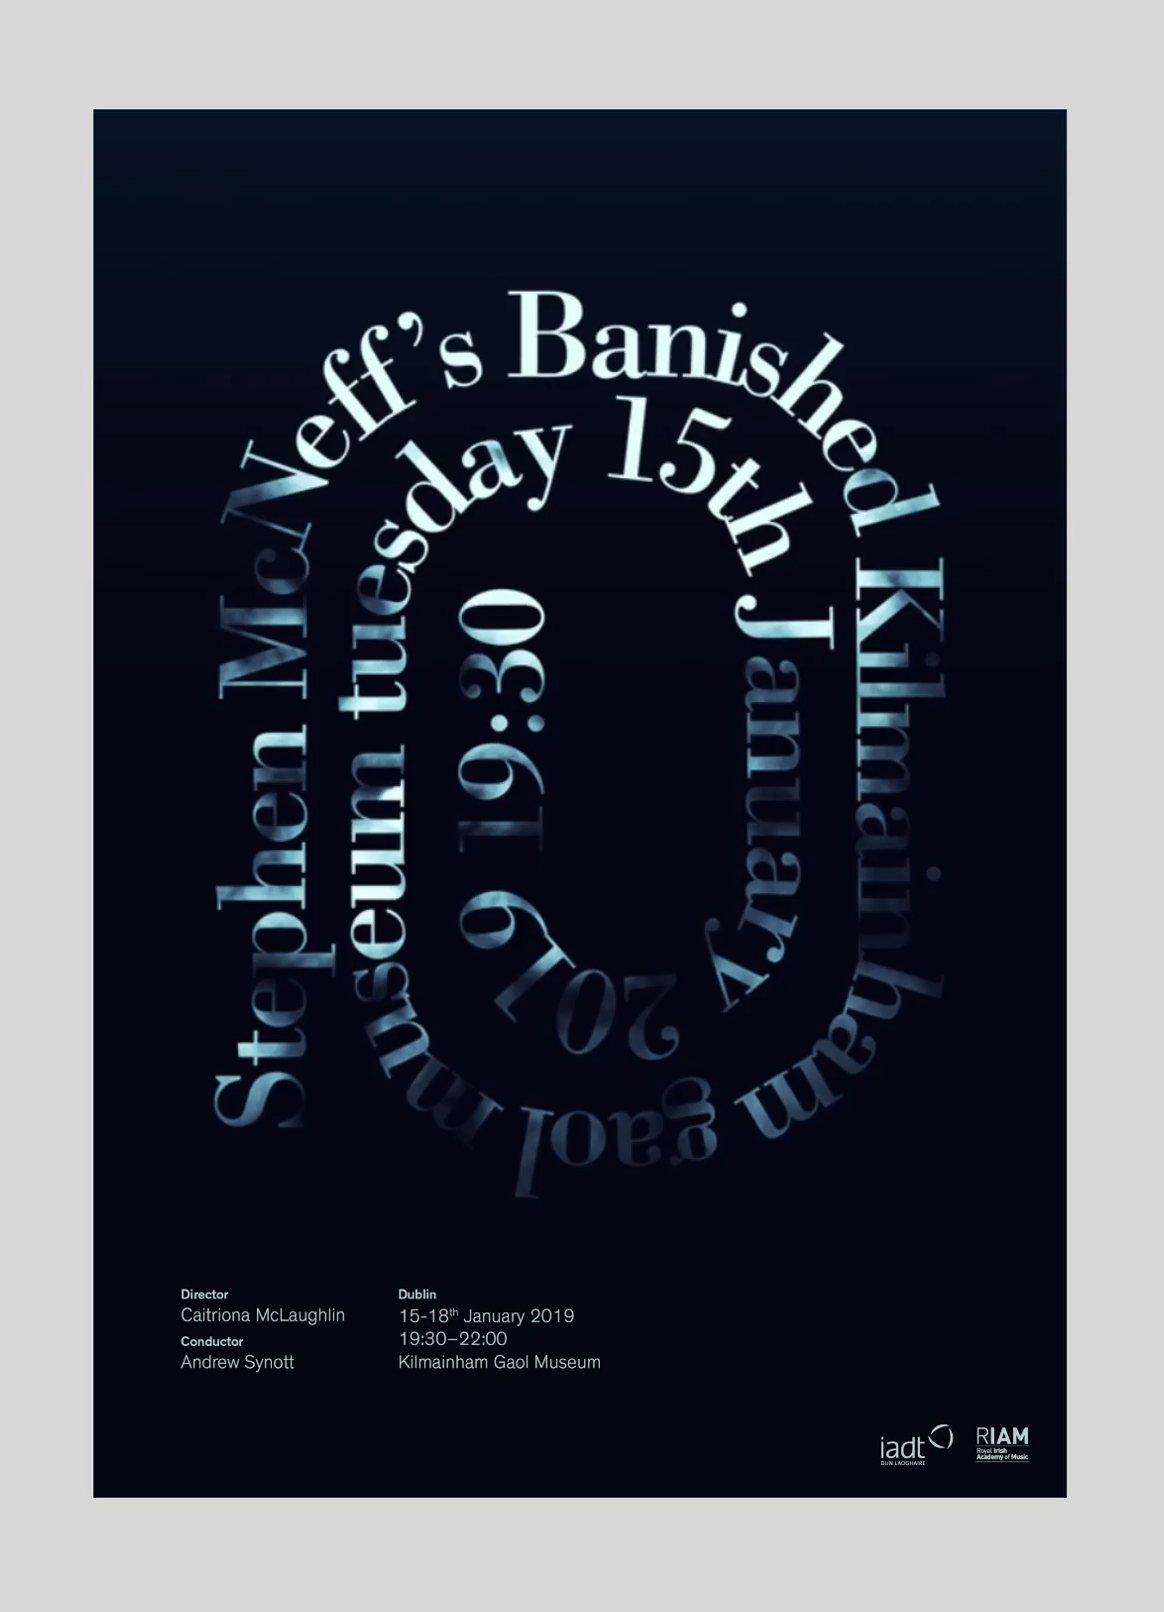
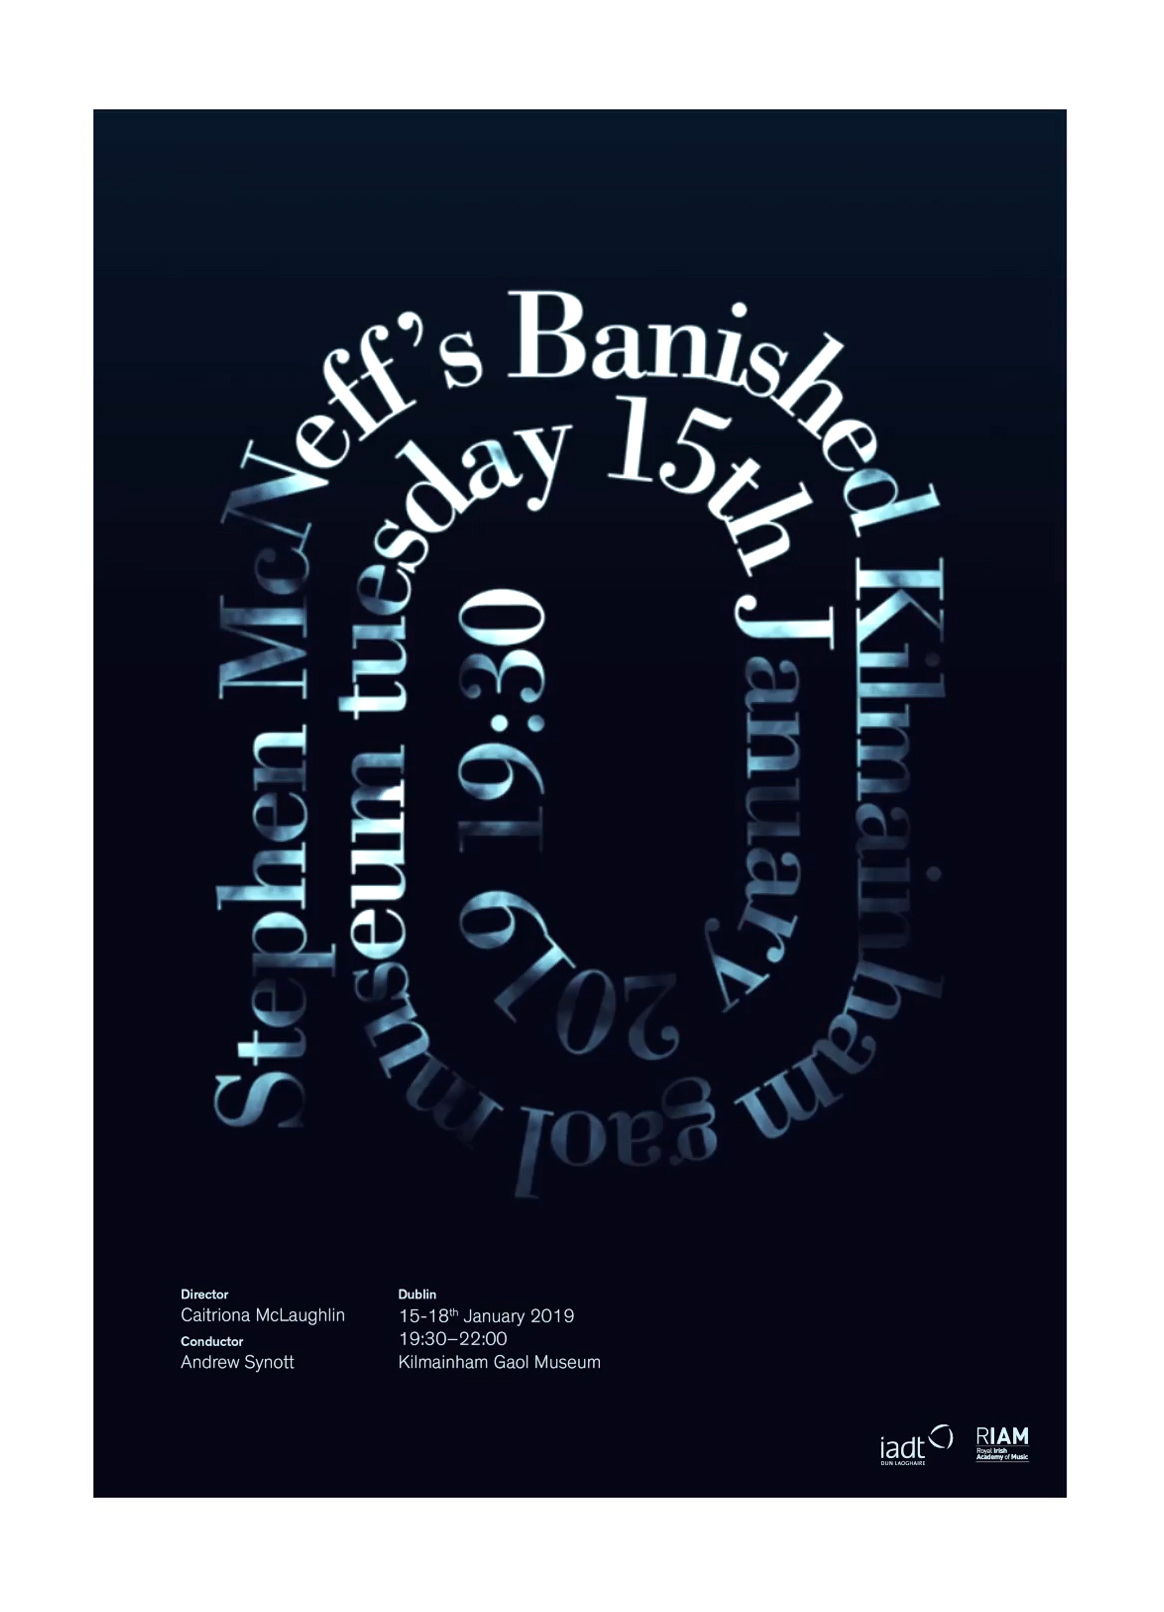
banisjed

diff --git a/Banished.html b/Banished.html
@@ -201,10 +201,10 @@ var currentScrollPos = window.pageYOffset;
                             <div  class="container-fluid hidden " >
                                 <div class="row justify-content-center">
                                     <div class="hide-mobile col-12 no-padding">
-                                        <img src="img/Banished/hero%20image%20banished.jpg" class="embed-responsive">
+                                       <img src="img/Banished/hero%20image%20banished.jpg" class="embed-responsive">
                                     </div>
                                     <div class="hide-desktop col-12 no-padding bg-black"style="">
-                                        <img src="img/Banished/hero%20image%20banished.jpg" class="embed-responsive">
+                                         <img src="img/Banished/hero%20image%20banished%20mobile.jpg" class="embed-responsive">
                                     </div>
                                 </div>
                             </div>
@@ -227,7 +227,7 @@ var currentScrollPos = window.pageYOffset;
                                 <span class="Light">
                                     <img class="no-padding col-sm-1 no-padding col-2  "src="img/alliconworkactive.svg"><img class="col-sm-1 no-padding col-2 "src="img/motioniconworkactive.svg">
                                     <img class="col-sm-1 no-padding col-2 "src="img/screeniconwork.svg">
-                                    <img class="col-sm-1 no-padding col-2 "src="img/editorialiconworkactive.svg"><br>Client: Self authored<br>
+                                    <img class="col-sm-1 no-padding col-2 "src="img/editorialiconworkactive.svg"><br>Client: RIAM<br>
                   
                                 </span> 
                             </p>
@@ -267,22 +267,32 @@ var currentScrollPos = window.pageYOffset;
     
      
      <div  class="container-fluid  bg-grey ">
-                <div class="row  justify-content-center position-previews-karoshi padding-30">
-                    <div class="hidden  no-padding col " style="margin:auto;">
-                        <img src="img/Banished/poster%201.jpg" class="embed-responsive">
+                
+         <div class="row  justify-content-center  padding-30 bg-grey">
+                    <div class="hidden bg-grey no-padding col-sm-4 col-12" style="margin:auto;">
+                        <img src="img/Banished/poster%201.jpg" class="embed-responsive" style="mix-blend-mode: multiply;">
                     </div>
-                    <div class="hidden  no-padding col " style="margin:auto;">
-                        <img src="img/Banished/poster%202.jpg" class="embed-responsive">
+                    <div class="hidden bg-grey no-padding col-sm-4 col-12" style="margin:auto;">
+                        <img src="img/Banished/poster%202.jpg" class="embed-responsive" style="mix-blend-mode: multiply;">
                     </div>
-                    <div class="hidden  no-padding col " style="margin:auto;">
-                        <img src="img/Banished/poster%203.jpg" class="embed-responsive">
+                    <div class="hidden bg-grey no-padding col-sm-4 col-12" style="margin:auto;">
+                        <img src="img/Banished/poster%209.jpg" class="embed-responsive" style="mix-blend-mode: multiply;">
                     </div>
+                    
+                    
                 </div>
             </div>
+      
      
      
         
         </div>
+    
+    
+     
+     
+        
+
     
     
     

diff --git a/index.html b/index.html
@@ -525,6 +525,44 @@ var currentScrollPos = window.pageYOffset;
                             
                             <div  class="container-fluid  hidden">
                                 <div class="row justify-content-center">
+                                    <li class="position-previews mix Editorial Motion radio2 option6 col-sm-9 col-12">
+                                        <div id="wrapper">
+                                        <a href="Banished.html" class="hide-mobile hover" >
+                                            
+                                            <div class=" col-12 no-padding">
+                <img src="img/Banished/hero%20image%20banished%20preview.jpg" class="embed-responsive">
+            </div>
+                                            
+                                        </a>
+                                            
+                                            
+                                        
+                                        <a href="Banished.html" class="hide-desktop hover" >
+                                            
+                                            <img src="img/Banished/hero%20image%20banished%20mobile.jpg" class="embed-responsive">
+                                            
+                                        </a>
+                                            <div class="justify-content-center align-text-bottom text-style-preview hide-desktop" ><p class="text menu-mobile-sort-type regular"><span>Banished</span>
+                                                <br>
+                                                <span>Opera poster</span></p></div>
+                                            
+                                            <div class="justify-content-center align-text-bottom text-style-preview hide-mobile" style="">
+                                                
+                                            <p class="text menu-mobile-sort-type home-lables regular"><span>Banished</span>
+                                                <br>
+                                                <span>Opera poster</span></p></div>
+                                        
+                                        
+                                        
+                                        
+                                        </div>
+                                    </li>
+                                </div>
+                               
+                            </div>
+                            
+                            <div  class="container-fluid  hidden">
+                                <div class="row justify-content-center">
                                     <li class="position-previews mix Motion radio2 option6 col-sm-9 col-12">
                                         <div id="wrapper">
                                         <a href="karoshii.html" class="hide-mobile hover" >
